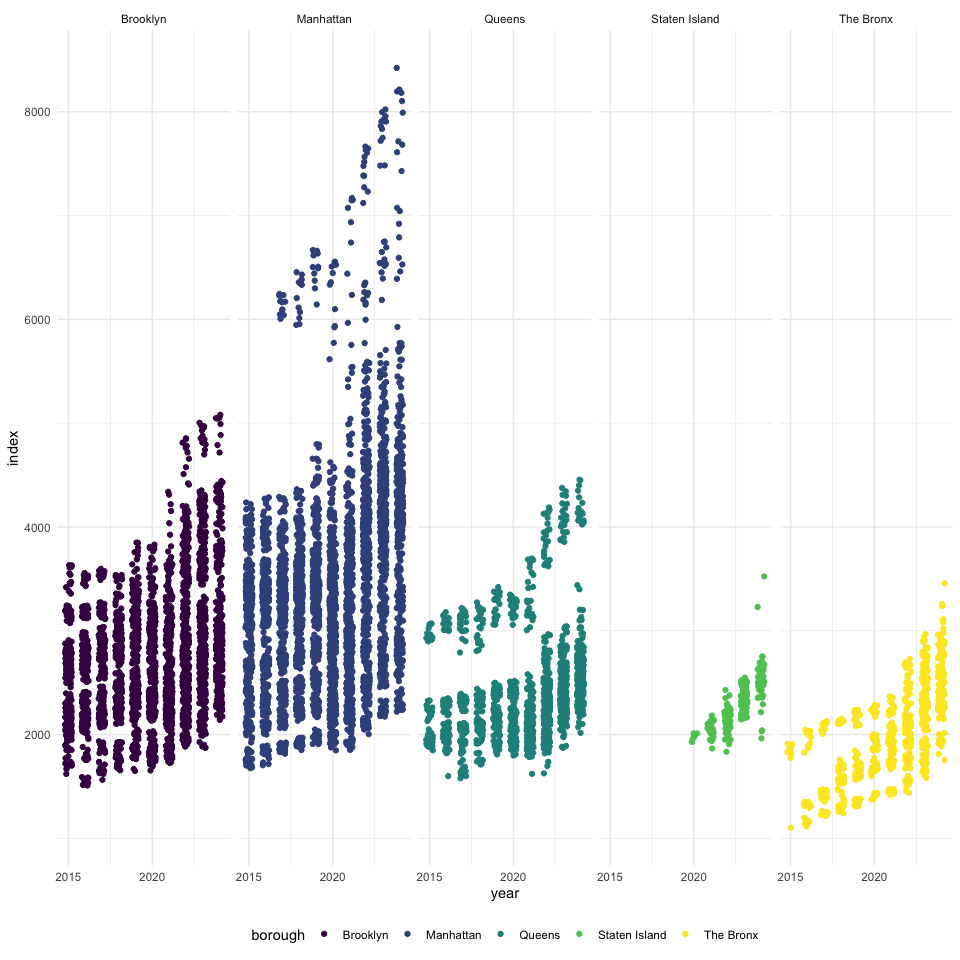
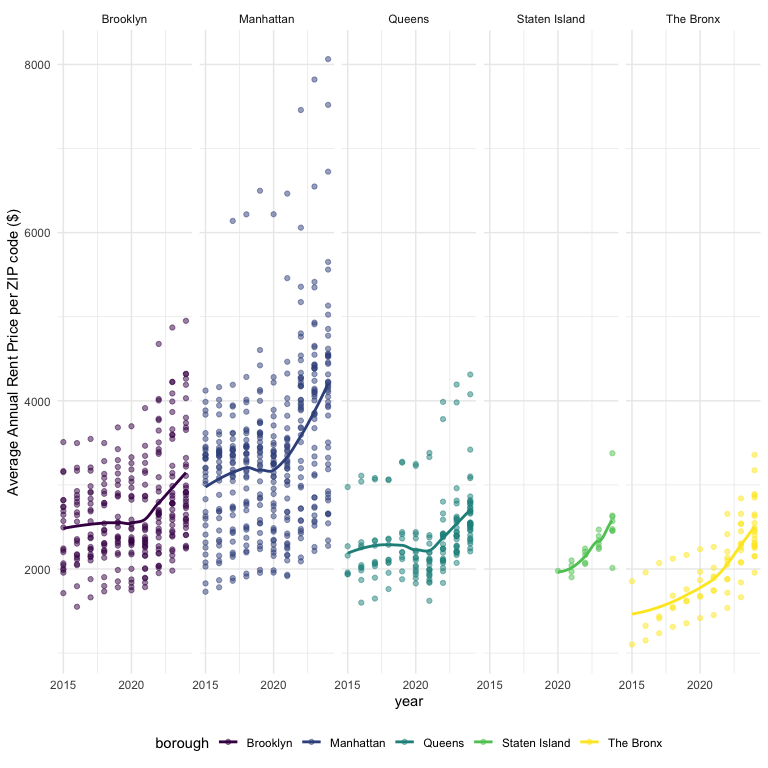
commenting on plot for problem 2

diff --git a/p8105_hw3_sc5826.md b/p8105_hw3_sc5826.md
@@ -22,7 +22,7 @@ library(p8105.datasets)
 
 
 knitr::opts_chunk$set(
-  fig.width = 10,
+  fig.width = 8,
   fig.asp = 1,
   out.width = "95%"
 )
@@ -224,7 +224,17 @@ zori_nyc = read.csv("./data/zillow_data/Zip_zori_uc_sfrcondomfr_sm_month_NYC.csv
 
 zori_nyc_neighborhoods = left_join(zori_nyc, zip_codes_nyc, by = c("zip_code", "county")) |> 
   relocate(year, month, day, county, county_code, county_fips, neighborhood, size_rank, region_id, zip_code) |> 
-  arrange(year, month, day)
+  arrange(year, month, day)|> 
+  mutate(
+    borough = case_match(
+      county,
+      "Bronx" ~ "The Bronx",
+      "Kings" ~ "Brooklyn",
+      "New York" ~ "Manhattan",
+      "Queens" ~ "Queens",
+      "Richmond" ~ "Staten Island"
+      )
+    ) 
 ```
 
 There are 116 months between January 2015 and August 2024. How many ZIP
@@ -259,16 +269,6 @@ Average rent price year-to-year:
 
 ``` r
 zori_nyc_neighborhoods |> 
-  mutate(
-    borough = case_match(
-      county,
-      "Bronx" ~ "The Bronx",
-      "Kings" ~ "Brooklyn",
-      "New York" ~ "Manhattan",
-      "Queens" ~ "Queens",
-      "Richmond" ~ "Staten Island"
-      )
-    ) |> 
   group_by(borough, year) |> 
   summarize(
     avg_rent_price = round(mean(index, na.rm=TRUE), digits = 2)
@@ -319,31 +319,74 @@ Manhattan, Staten Island, and The Bronx. In 2022, average rental prices
 shot up in every borough, and have continued to rise in subsequent
 years.
 
-Make a plot showing NYC Rental Prices within ZIP codes for all available
-years. Your plot should facilitate comparisons across boroughs. Comment
-on any significant elements of this plot.
+``` r
+average_rent_zipcode = zori_nyc_neighborhoods |> 
+  filter(!is.na(index)) |> 
+  group_by(borough, year, zip_code, neighborhood) |> 
+  summarize(
+    avg_rent_price = round(mean(index, na.rm=TRUE), digits = 2)
+  ) |> 
+  ungroup()
+```
+
+    ## `summarise()` has grouped output by 'borough', 'year', 'zip_code'. You can
+    ## override using the `.groups` argument.
 
 ``` r
-zori_nyc_neighborhoods |> 
-  mutate(
-    borough = case_match(
-      county,
-      "Bronx" ~ "The Bronx",
-      "Kings" ~ "Brooklyn",
-      "New York" ~ "Manhattan",
-      "Queens" ~ "Queens",
-      "Richmond" ~ "Staten Island"
-      )
-    ) |> 
-  filter(!is.na(index)) |> 
-  ggplot(aes(x = year, y = index, color = borough)) +
-  geom_jitter(height = 0, width = 0.2) +
+average_rent_zipcode |> 
+  ggplot(aes(x = year, y = avg_rent_price, color = borough)) +
+  geom_point(alpha = 0.5) + 
+  geom_smooth(method = "loess", se = FALSE) +
   facet_grid(.~borough) +
   scale_x_continuous(
     breaks = c(2015, 2020)
-  ) 
+  ) +
+  ylab("Average Annual Rent Price per ZIP code ($)")
 ```
 
+    ## `geom_smooth()` using formula = 'y ~ x'
+
 <img src="p8105_hw3_sc5826_files/figure-gfm/unnamed-chunk-11-1.png" width="95%" />
+Overall, we can see that Brooklyn and Manhattan have many data points
+and a large spread in the data, while Staten Island and The Bronx have
+fewer data points and a small spread in the data. In Brooklyn,
+Manhattan, and Queens, here are some distinct gaps in average rent
+price. Let’s take a look at which zip codes are in these gaps.
+
+``` r
+ranked_rent = average_rent_zipcode |> 
+  group_by(borough, year) |> 
+  mutate(rent_rank = min_rank(desc(avg_rent_price))) 
+
+top_rent_zip_code_brooklyn = ranked_rent |> 
+  filter(borough == "Brooklyn", year %in% c(2022:2024), rent_rank == 1) 
+
+top_rent_zip_code_manhattan = ranked_rent |> 
+  filter(borough == "Manhattan", year %in% c(2017:2024), rent_rank <= 5) 
+
+top_rent_zip_code_queens = ranked_rent |> 
+  filter(borough == "Queens", year %in% c(2015:2024), rent_rank <= 2) 
+```
+
+In Brooklyn, there is 1 distinct zip code (11249) that has an unusally
+high average rent starting in 2022. This neighborhood is unlisted as NA,
+but Google shows that this zip code has serviced Williamsburg since
+2011.
+
+In Manhattan, there isn’t a distinct gap, but the top 5 highest rents
+are consistently from 8 zip codes (10001, 10007, 10011, 10013, 10018,
+10069, 10282, 10162). We know some of these neighborhoods from the data
+(Chelsea and Clinton, Lower Manhattan, Greenwich Village and Soho).
+Google shows that the zip codes where neighborhood is not listed in the
+data set are Upper West Side, specifically near Lincoln Center and
+Riverside Park, (10069) and Battery Park City (10282).
+
+In Queens, we can see that there are 2 zip codes with consistently high
+average rent since 2015. These zip codes are 11101, 11102, 11109, which
+correspond to Northwest Queens (including Astoria) and Long Island City
+(LIC).
+
+These expensive neighborhoods are not surprising to see, especially
+given their trendiness.
 
 ### Problem 3
